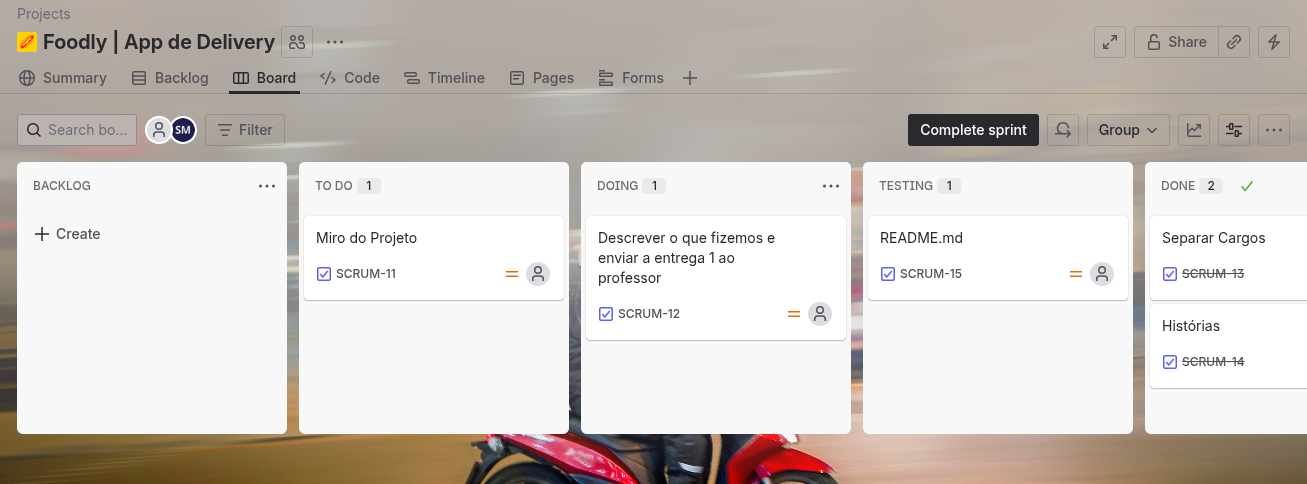
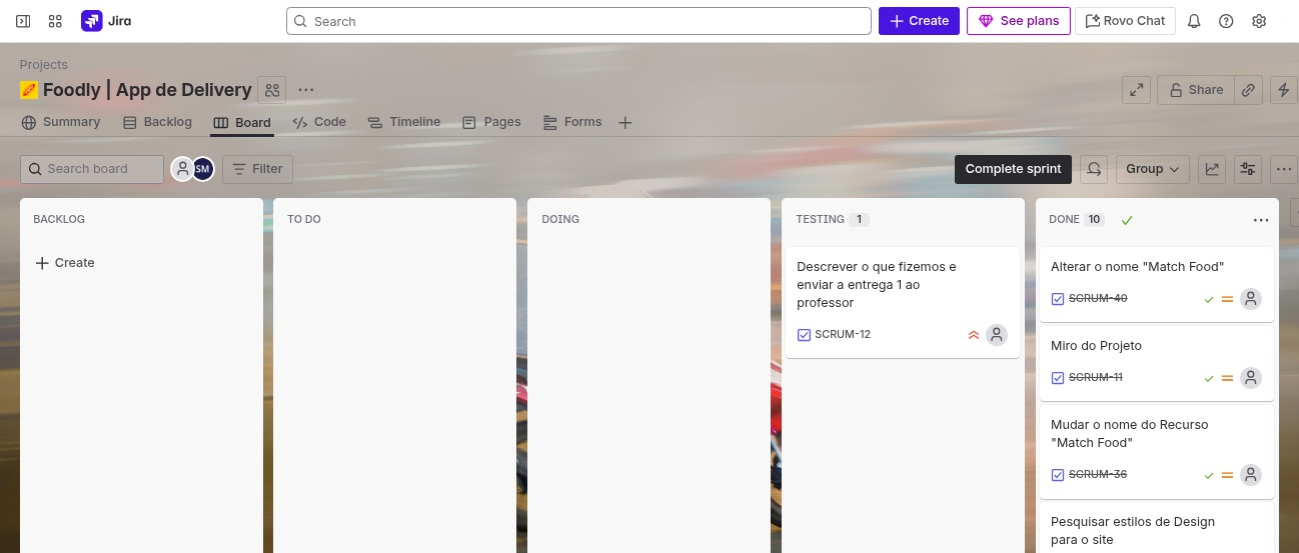
trocando as imagens do jira

diff --git a/README.md b/README.md
@@ -75,16 +75,15 @@
 
 ## Quadro Scrum
 
+> [**Link do Quadro**](https://projeto-unicap-sistema-delivery.atlassian.net/jira/software/projects/SCRUM/boards/1)
+
 ### Usamos o Jira para fazer:
 
-<!--<img src="assets/board.png">
-<img src="assets/backlog_1.png">
-<img src="assets/backlog_2.png">
-<img src="assets/backlog_3.png">
-<img src="assets/backlog_4.png">
-<img src="assets/backlog_5.png">-->
+<img src="assets/board.png">
+<img src="assets/backlog.png">
 
-<!--
+
+<!-- DEPOIS INCLUIR: --
 ## Como usar?
 
 To clone and run this application, you'll need [Git](https://git-scm.com) and [Node.js](https://nodejs.org/en/download/) (which comes with [npm](http://npmjs.com)) installed on your computer. From your command line:
